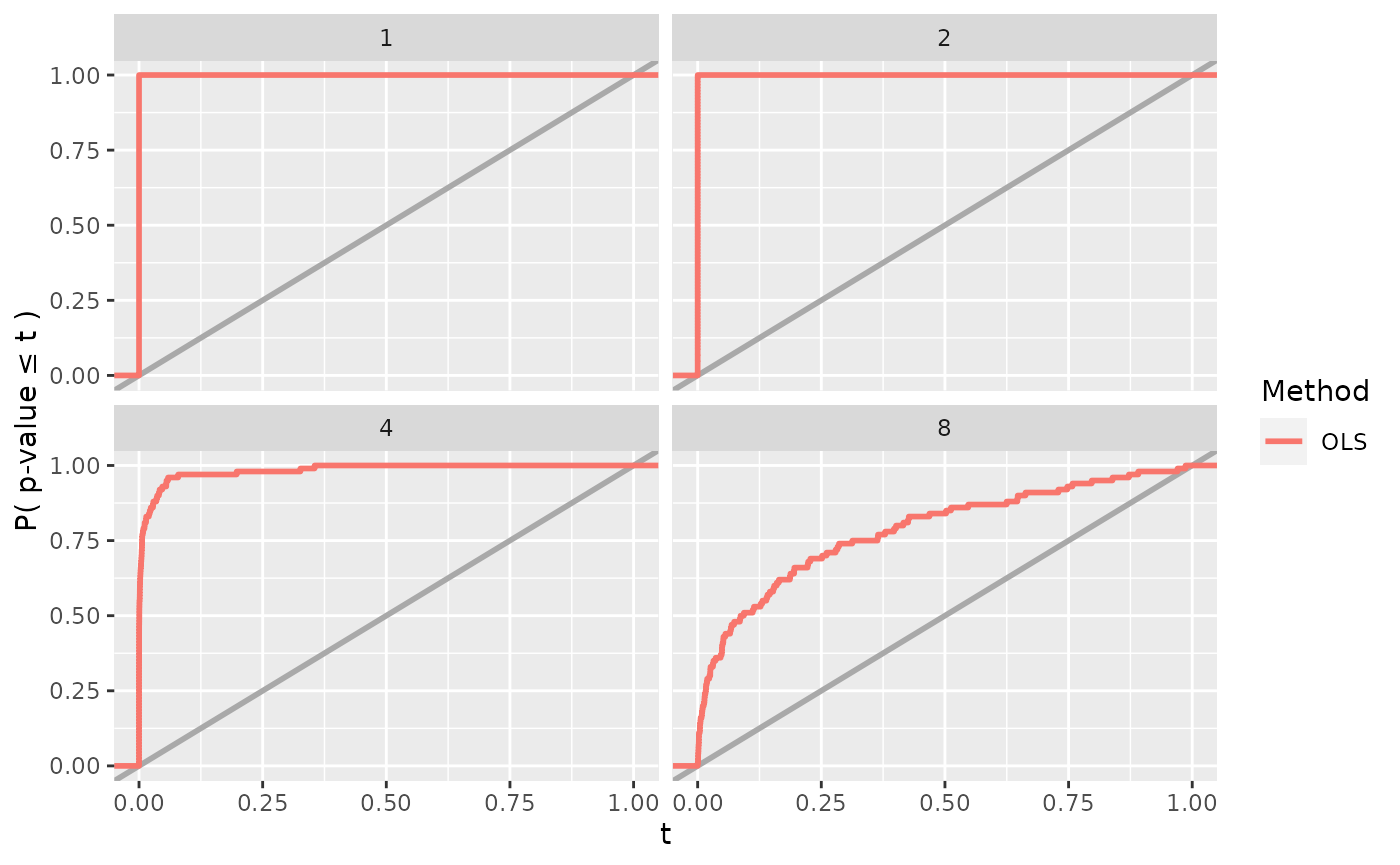
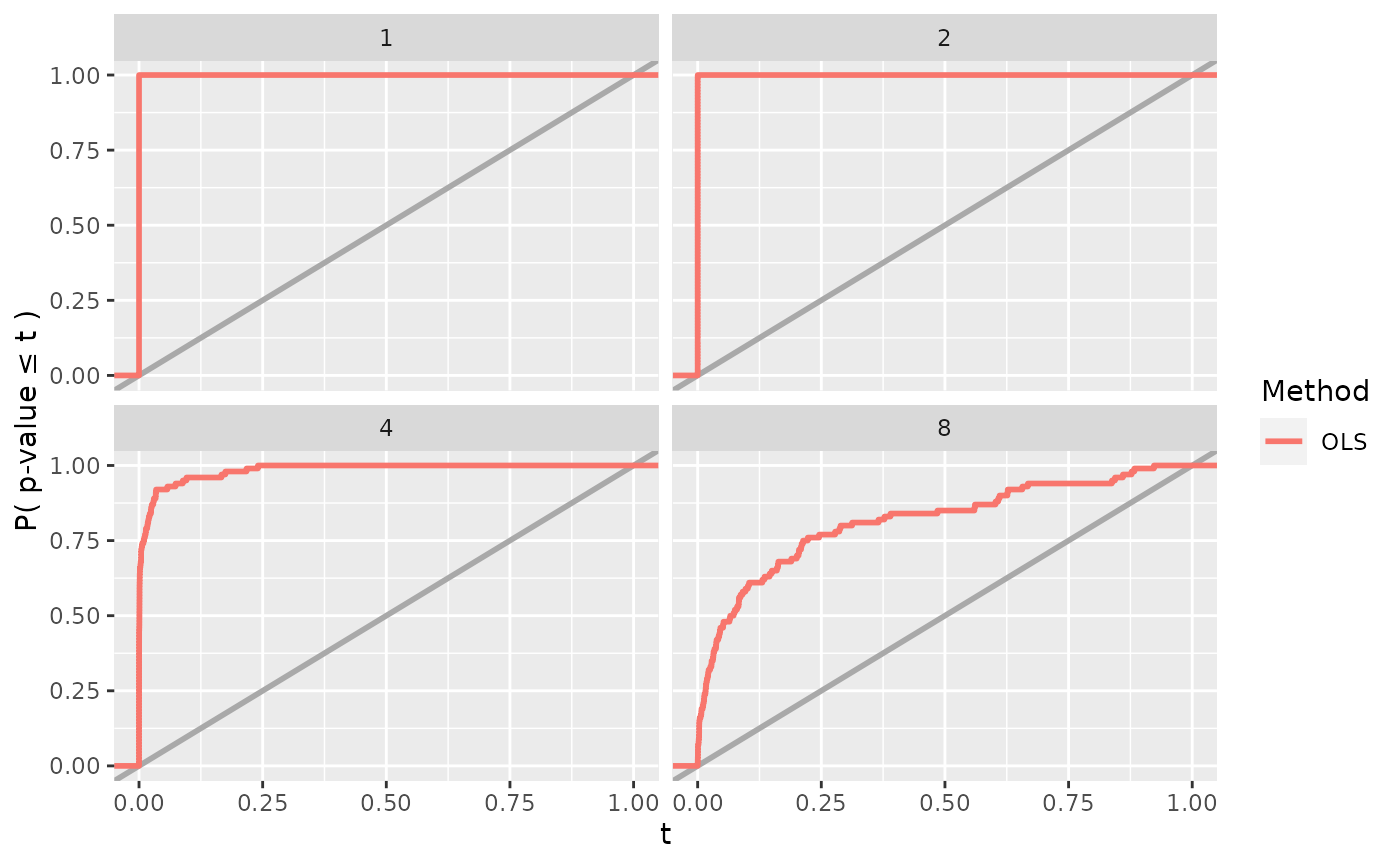
Built site for simChef: 0.0.1@9a0513c

diff --git a/articles/simChef.html b/articles/simChef.html
@@ -31,7 +31,7 @@
       </button>
       <span class="navbar-brand">
         <a class="navbar-link" href="../index.html">simChef</a>
-        <span class="version label label-default" data-toggle="tooltip" data-placement="bottom" title="Released version">0.0.0.9000</span>
+        <span class="version label label-default" data-toggle="tooltip" data-placement="bottom" title="Released version">0.0.1</span>
       </span>
     </div>
 
@@ -269,20 +269,20 @@
 <div class="sourceCode" id="cb14"><pre class="downlit sourceCode r">
 <code class="sourceCode R"><span class="va">results</span> <span class="op">&lt;-</span> <span class="va">experiment</span><span class="op">$</span><span class="fu">run</span><span class="op">(</span>n_reps <span class="op">=</span> <span class="fl">100</span>, save <span class="op">=</span> <span class="cn">TRUE</span><span class="op">)</span>
 <span class="co">#&gt; Fitting Linear Regression Experiment...</span>
-<span class="co">#&gt; Fitting completed | time taken: 0.028276 minutes</span>
+<span class="co">#&gt; Fitting completed | time taken: 0.026784 minutes</span>
 <span class="co">#&gt; Saving fit results...</span>
-<span class="co">#&gt; Fit results saved | time taken: 0.014868 seconds</span>
+<span class="co">#&gt; Fit results saved | time taken: 0.012683 seconds</span>
 <span class="co">#&gt; ==============================</span>
 <span class="co">#&gt; Evaluating Linear Regression Experiment...</span>
 <span class="co">#&gt; `summarise()` has grouped output by 'dgp_name'. You can override using the `.groups` argument.</span>
-<span class="co">#&gt; Evaluation completed | time taken: 0.000292 minutes</span>
+<span class="co">#&gt; Evaluation completed | time taken: 0.000249 minutes</span>
 <span class="co">#&gt; Saving eval results...</span>
-<span class="co">#&gt; Eval results saved | time taken: 0.014967 seconds</span>
+<span class="co">#&gt; Eval results saved | time taken: 0.014866 seconds</span>
 <span class="co">#&gt; ==============================</span>
 <span class="co">#&gt; Visualizing Linear Regression Experiment...</span>
-<span class="co">#&gt; Visualization completed | time taken: 0.002120 minutes</span>
+<span class="co">#&gt; Visualization completed | time taken: 0.001972 minutes</span>
 <span class="co">#&gt; Saving visualize results...</span>
-<span class="co">#&gt; Visualize results saved | time taken: 0.058697 seconds</span>
+<span class="co">#&gt; Visualize results saved | time taken: 0.059932 seconds</span>
 <span class="co">#&gt; ==============================</span></code></pre></div>
 <p>or alternatively,</p>
 <div class="sourceCode" id="cb15"><pre class="downlit sourceCode r">
@@ -310,23 +310,23 @@
 <span class="co">#&gt; # A tibble: 100 × 5</span>
 <span class="co">#&gt;    rep   dgp_name            method_name `X1 p-value` `X2 p-value`</span>
 <span class="co">#&gt;    &lt;chr&gt; &lt;chr&gt;               &lt;chr&gt;              &lt;dbl&gt;        &lt;dbl&gt;</span>
-<span class="co">#&gt;  1 1     Linear Gaussian DGP OLS             1.61e-41       0.643 </span>
-<span class="co">#&gt;  2 2     Linear Gaussian DGP OLS             1.55e-28       0.364 </span>
-<span class="co">#&gt;  3 3     Linear Gaussian DGP OLS             2.13e-29       0.763 </span>
-<span class="co">#&gt;  4 4     Linear Gaussian DGP OLS             1.55e-28       0.891 </span>
-<span class="co">#&gt;  5 5     Linear Gaussian DGP OLS             2.77e-27       0.629 </span>
-<span class="co">#&gt;  6 6     Linear Gaussian DGP OLS             1.36e-29       0.423 </span>
-<span class="co">#&gt;  7 7     Linear Gaussian DGP OLS             1.08e-29       0.464 </span>
-<span class="co">#&gt;  8 8     Linear Gaussian DGP OLS             4.59e-35       0.423 </span>
-<span class="co">#&gt;  9 9     Linear Gaussian DGP OLS             4.39e-20       0.0371</span>
-<span class="co">#&gt; 10 10    Linear Gaussian DGP OLS             4.92e-35       0.113 </span>
+<span class="co">#&gt;  1 1     Linear Gaussian DGP OLS             1.06e-36       0.675 </span>
+<span class="co">#&gt;  2 2     Linear Gaussian DGP OLS             9.42e-29       0.0782</span>
+<span class="co">#&gt;  3 3     Linear Gaussian DGP OLS             1.16e-29       0.207 </span>
+<span class="co">#&gt;  4 4     Linear Gaussian DGP OLS             8.33e-33       0.307 </span>
+<span class="co">#&gt;  5 5     Linear Gaussian DGP OLS             2.50e-39       0.126 </span>
+<span class="co">#&gt;  6 6     Linear Gaussian DGP OLS             6.45e-35       0.128 </span>
+<span class="co">#&gt;  7 7     Linear Gaussian DGP OLS             5.77e-32       0.0736</span>
+<span class="co">#&gt;  8 8     Linear Gaussian DGP OLS             9.10e-36       0.641 </span>
+<span class="co">#&gt;  9 9     Linear Gaussian DGP OLS             9.66e-26       0.937 </span>
+<span class="co">#&gt; 10 10    Linear Gaussian DGP OLS             5.98e-31       0.779 </span>
 <span class="co">#&gt; # … with 90 more rows</span>
 <span class="va">results</span><span class="op">$</span><span class="va">eval_results</span>
 <span class="co">#&gt; $`Rejection Prob. (alpha = 0.1)`</span>
 <span class="co">#&gt; # A tibble: 1 × 4</span>
 <span class="co">#&gt;   dgp_name            method_name `X1 Reject Prob.` `X2 Reject Prob.`</span>
 <span class="co">#&gt;   &lt;chr&gt;               &lt;chr&gt;                   &lt;dbl&gt;             &lt;dbl&gt;</span>
-<span class="co">#&gt; 1 Linear Gaussian DGP OLS                         1              0.14</span>
+<span class="co">#&gt; 1 Linear Gaussian DGP OLS                         1              0.11</span>
 <span class="va">results</span><span class="op">$</span><span class="va">visualize_results</span>
 <span class="co">#&gt; $Power</span></code></pre></div>
 <p><img src="simChef_files/figure-html/unnamed-chunk-17-1.png" width="700"></p>
@@ -374,26 +374,26 @@
 <div class="sourceCode" id="cb21"><pre class="downlit sourceCode r">
 <code class="sourceCode R"><span class="va">vary_results</span> <span class="op">&lt;-</span> <span class="va">experiment</span><span class="op">$</span><span class="fu">run</span><span class="op">(</span>n_reps <span class="op">=</span> <span class="fl">100</span>, save <span class="op">=</span> <span class="cn">TRUE</span><span class="op">)</span>
 <span class="co">#&gt; Fitting Linear Regression Experiment...</span>
-<span class="co">#&gt; Fitting completed | time taken: 0.071000 minutes</span>
+<span class="co">#&gt; Fitting completed | time taken: 0.065517 minutes</span>
 <span class="co">#&gt; Saving fit results...</span>
-<span class="co">#&gt; Fit results saved | time taken: 0.025206 seconds</span>
+<span class="co">#&gt; Fit results saved | time taken: 0.023986 seconds</span>
 <span class="co">#&gt; ==============================</span>
 <span class="co">#&gt; Evaluating Linear Regression Experiment...</span>
-<span class="co">#&gt; Evaluation completed | time taken: 0.000347 minutes</span>
+<span class="co">#&gt; Evaluation completed | time taken: 0.000321 minutes</span>
 <span class="co">#&gt; Saving eval results...</span>
-<span class="co">#&gt; Eval results saved | time taken: 0.023142 seconds</span>
+<span class="co">#&gt; Eval results saved | time taken: 0.022891 seconds</span>
 <span class="co">#&gt; ==============================</span>
 <span class="co">#&gt; Visualizing Linear Regression Experiment...</span>
-<span class="co">#&gt; Visualization completed | time taken: 0.000310 minutes</span>
+<span class="co">#&gt; Visualization completed | time taken: 0.000284 minutes</span>
 <span class="co">#&gt; Saving visualize results...</span>
-<span class="co">#&gt; Visualize results saved | time taken: 0.070595 seconds</span>
+<span class="co">#&gt; Visualize results saved | time taken: 0.068087 seconds</span>
 <span class="co">#&gt; ==============================</span>
 <span class="va">vary_results</span><span class="op">$</span><span class="va">eval_results</span>
 <span class="co">#&gt; $`Rejection Prob. (alpha = 0.1)`</span>
 <span class="co">#&gt; # A tibble: 1 × 4</span>
 <span class="co">#&gt;   dgp_name            method_name `X1 Reject Prob.` `X2 Reject Prob.`</span>
 <span class="co">#&gt;   &lt;chr&gt;               &lt;chr&gt;                   &lt;dbl&gt;             &lt;dbl&gt;</span>
-<span class="co">#&gt; 1 Linear Gaussian DGP OLS                     0.872             0.115</span>
+<span class="co">#&gt; 1 Linear Gaussian DGP OLS                     0.888             0.095</span>
 <span class="va">vary_results</span><span class="op">$</span><span class="va">visualize_results</span>
 <span class="co">#&gt; $Power</span></code></pre></div>
 <p><img src="simChef_files/figure-html/unnamed-chunk-22-1.png" width="700"></p>
@@ -446,29 +446,29 @@
   <span class="fu"><a href="../reference/update_funs.html">update_visualizer</a></span><span class="op">(</span><span class="va">power_plot</span>, name <span class="op">=</span> <span class="st">"Power"</span><span class="op">)</span> <span class="op">%&gt;%</span>
   <span class="fu"><a href="../reference/run_experiment.html">run_experiment</a></span><span class="op">(</span>n_reps <span class="op">=</span> <span class="fl">100</span>, save <span class="op">=</span> <span class="cn">TRUE</span><span class="op">)</span>
 <span class="co">#&gt; Fitting Linear Regression Experiment...</span>
-<span class="co">#&gt; Fitting completed | time taken: 0.070271 minutes</span>
+<span class="co">#&gt; Fitting completed | time taken: 0.065070 minutes</span>
 <span class="co">#&gt; Saving fit results...</span>
-<span class="co">#&gt; Fit results saved | time taken: 0.026704 seconds</span>
+<span class="co">#&gt; Fit results saved | time taken: 0.024217 seconds</span>
 <span class="co">#&gt; ==============================</span>
 <span class="co">#&gt; Evaluating Linear Regression Experiment...</span>
-<span class="co">#&gt; Evaluation completed | time taken: 0.000245 minutes</span>
+<span class="co">#&gt; Evaluation completed | time taken: 0.000258 minutes</span>
 <span class="co">#&gt; Saving eval results...</span>
-<span class="co">#&gt; Eval results saved | time taken: 0.025007 seconds</span>
+<span class="co">#&gt; Eval results saved | time taken: 0.025120 seconds</span>
 <span class="co">#&gt; ==============================</span>
 <span class="co">#&gt; Visualizing Linear Regression Experiment...</span>
-<span class="co">#&gt; Visualization completed | time taken: 0.000527 minutes</span>
+<span class="co">#&gt; Visualization completed | time taken: 0.000488 minutes</span>
 <span class="co">#&gt; Saving visualize results...</span>
-<span class="co">#&gt; Visualize results saved | time taken: 0.084808 seconds</span>
+<span class="co">#&gt; Visualize results saved | time taken: 0.080208 seconds</span>
 <span class="co">#&gt; ==============================</span>
 <span class="va">vary_results</span><span class="op">$</span><span class="va">eval_results</span>
 <span class="co">#&gt; $`Rejection Prob. (alpha = 0.1)`</span>
 <span class="co">#&gt; # A tibble: 4 × 5</span>
 <span class="co">#&gt;   dgp_name            method_name sigma `X1 Reject Prob.` `X2 Reject Prob.`</span>
 <span class="co">#&gt;   &lt;chr&gt;               &lt;chr&gt;       &lt;dbl&gt;             &lt;dbl&gt;             &lt;dbl&gt;</span>
-<span class="co">#&gt; 1 Linear Gaussian DGP OLS             1              1                 0.07</span>
-<span class="co">#&gt; 2 Linear Gaussian DGP OLS             2              1                 0.2 </span>
-<span class="co">#&gt; 3 Linear Gaussian DGP OLS             4              0.97              0.07</span>
-<span class="co">#&gt; 4 Linear Gaussian DGP OLS             8              0.51              0.1</span>
+<span class="co">#&gt; 1 Linear Gaussian DGP OLS             1              1                 0.1 </span>
+<span class="co">#&gt; 2 Linear Gaussian DGP OLS             2              1                 0.08</span>
+<span class="co">#&gt; 3 Linear Gaussian DGP OLS             4              0.96              0.09</span>
+<span class="co">#&gt; 4 Linear Gaussian DGP OLS             8              0.59              0.11</span>
 <span class="va">vary_results</span><span class="op">$</span><span class="va">visualize_results</span>
 <span class="co">#&gt; $Power</span></code></pre></div>
 <p><img src="simChef_files/figure-html/unnamed-chunk-25-1.png" width="700"></p>
@@ -519,19 +519,19 @@
                               <span class="fu"><a href="https://rdrr.io/r/base/c.html">c</a></span><span class="op">(</span><span class="fl">1</span>, <span class="fl">2</span><span class="op">)</span><span class="op">)</span><span class="op">)</span> <span class="op">%&gt;%</span>
   <span class="fu"><a href="../reference/run_experiment.html">run_experiment</a></span><span class="op">(</span>n_reps <span class="op">=</span> <span class="fl">100</span>, save <span class="op">=</span> <span class="cn">TRUE</span><span class="op">)</span>
 <span class="co">#&gt; Fitting Linear Regression Experiment...</span>
-<span class="co">#&gt; Fitting completed | time taken: 0.174802 minutes</span>
+<span class="co">#&gt; Fitting completed | time taken: 0.151339 minutes</span>
 <span class="co">#&gt; Saving fit results...</span>
-<span class="co">#&gt; Fit results saved | time taken: 0.030226 seconds</span>
+<span class="co">#&gt; Fit results saved | time taken: 0.032769 seconds</span>
 <span class="co">#&gt; ==============================</span>
 <span class="co">#&gt; Evaluating Linear Regression Experiment...</span>
-<span class="co">#&gt; Evaluation completed | time taken: 0.000357 minutes</span>
+<span class="co">#&gt; Evaluation completed | time taken: 0.000325 minutes</span>
 <span class="co">#&gt; Saving eval results...</span>
-<span class="co">#&gt; Eval results saved | time taken: 0.028902 seconds</span>
+<span class="co">#&gt; Eval results saved | time taken: 0.026973 seconds</span>
 <span class="co">#&gt; ==============================</span>
 <span class="co">#&gt; Visualizing Linear Regression Experiment...</span>
-<span class="co">#&gt; Visualization completed | time taken: 0.004761 minutes</span>
+<span class="co">#&gt; Visualization completed | time taken: 0.004408 minutes</span>
 <span class="co">#&gt; Saving visualize results...</span>
-<span class="co">#&gt; Visualize results saved | time taken: 0.129688 seconds</span>
+<span class="co">#&gt; Visualize results saved | time taken: 0.122291 seconds</span>
 <span class="co">#&gt; ==============================</span>
 <span class="co"># run experiment across values of rho (correlation)</span>
 <span class="va">vary_cor_results</span> <span class="op">&lt;-</span> <span class="va">experiment</span> <span class="op">%&gt;%</span>
@@ -540,19 +540,19 @@
                   rho <span class="op">=</span> <span class="fu"><a href="https://rdrr.io/r/base/c.html">c</a></span><span class="op">(</span><span class="fl">0</span>, <span class="fl">0.2</span>, <span class="fl">0.5</span>, <span class="fl">0.9</span><span class="op">)</span><span class="op">)</span> <span class="op">%&gt;%</span>
   <span class="fu"><a href="../reference/run_experiment.html">run_experiment</a></span><span class="op">(</span>n_reps <span class="op">=</span> <span class="fl">100</span>, save <span class="op">=</span> <span class="cn">TRUE</span><span class="op">)</span>
 <span class="co">#&gt; Fitting Linear Regression Experiment...</span>
-<span class="co">#&gt; Fitting completed | time taken: 0.074842 minutes</span>
+<span class="co">#&gt; Fitting completed | time taken: 0.062647 minutes</span>
 <span class="co">#&gt; Saving fit results...</span>
-<span class="co">#&gt; Fit results saved | time taken: 0.031619 seconds</span>
+<span class="co">#&gt; Fit results saved | time taken: 0.025517 seconds</span>
 <span class="co">#&gt; ==============================</span>
 <span class="co">#&gt; Evaluating Linear Regression Experiment...</span>
-<span class="co">#&gt; Evaluation completed | time taken: 0.000221 minutes</span>
+<span class="co">#&gt; Evaluation completed | time taken: 0.000170 minutes</span>
 <span class="co">#&gt; Saving eval results...</span>
-<span class="co">#&gt; Eval results saved | time taken: 0.030880 seconds</span>
+<span class="co">#&gt; Eval results saved | time taken: 0.024949 seconds</span>
 <span class="co">#&gt; ==============================</span>
 <span class="co">#&gt; Visualizing Linear Regression Experiment...</span>
-<span class="co">#&gt; Visualization completed | time taken: 0.002419 minutes</span>
+<span class="co">#&gt; Visualization completed | time taken: 0.002016 minutes</span>
 <span class="co">#&gt; Saving visualize results...</span>
-<span class="co">#&gt; Visualize results saved | time taken: 0.166683 seconds</span>
+<span class="co">#&gt; Visualize results saved | time taken: 0.121485 seconds</span>
 <span class="co">#&gt; ==============================</span></code></pre></div>
 </div>
 <div id="experiment-as-an-r6-class" class="section level2">
@@ -705,15 +705,15 @@
 <div class="sourceCode" id="cb36"><pre class="downlit sourceCode r">
 <code class="sourceCode R"><span class="va">fit_results</span> <span class="op">&lt;-</span> <span class="va">experiment</span><span class="op">$</span><span class="fu">fit</span><span class="op">(</span>n_reps <span class="op">=</span> <span class="fl">100</span><span class="op">)</span>
 <span class="co">#&gt; Fitting Linear Regression Experiment...</span>
-<span class="co">#&gt; Fitting completed | time taken: 0.075522 minutes</span>
+<span class="co">#&gt; Fitting completed | time taken: 0.060215 minutes</span>
 <span class="co">#&gt; ==============================</span>
 <span class="va">eval_results</span> <span class="op">&lt;-</span> <span class="va">experiment</span><span class="op">$</span><span class="fu">evaluate</span><span class="op">(</span><span class="va">fit_results</span><span class="op">)</span>
 <span class="co">#&gt; Evaluating Linear Regression Experiment...</span>
-<span class="co">#&gt; Evaluation completed | time taken: 0.000198 minutes</span>
+<span class="co">#&gt; Evaluation completed | time taken: 0.000193 minutes</span>
 <span class="co">#&gt; ==============================</span>
 <span class="va">visualize_results</span> <span class="op">&lt;-</span> <span class="va">experiment</span><span class="op">$</span><span class="fu">visualize</span><span class="op">(</span><span class="va">fit_results</span>, <span class="va">eval_results</span><span class="op">)</span>
 <span class="co">#&gt; Visualizing Linear Regression Experiment...</span>
-<span class="co">#&gt; Visualization completed | time taken: 0.002060 minutes</span>
+<span class="co">#&gt; Visualization completed | time taken: 0.001831 minutes</span>
 <span class="co">#&gt; ==============================</span></code></pre></div>
 <p>or alternatively,</p>
 <div class="sourceCode" id="cb37"><pre class="downlit sourceCode r">
@@ -730,38 +730,38 @@
 <span class="co">#&gt;  $ Linear Gaussian DGP:List of 4</span>
 <span class="co">#&gt;   ..$ :List of 1</span>
 <span class="co">#&gt;   .. ..$ :List of 2</span>
-<span class="co">#&gt;   .. .. ..$ X: num [1:200, 1:2] 2.1085 0.2554 -1.3093 0.0832 0.0082 ...</span>
+<span class="co">#&gt;   .. .. ..$ X: num [1:200, 1:2] 0.0266 -1.7726 -2.1415 1.5555 -1.1212 ...</span>
 <span class="co">#&gt;   .. .. .. ..- attr(*, "dimnames")=List of 2</span>
 <span class="co">#&gt;   .. .. .. .. ..$ : NULL</span>
 <span class="co">#&gt;   .. .. .. .. ..$ : NULL</span>
-<span class="co">#&gt;   .. .. ..$ y: num [1:200, 1] 2.89 -0.37 -3.45 1.37 -1.3 ...</span>
+<span class="co">#&gt;   .. .. ..$ y: num [1:200, 1] 1.438 0.116 -3.492 0.647 -1.096 ...</span>
 <span class="co">#&gt;   .. ..- attr(*, "params")=List of 1</span>
 <span class="co">#&gt;   .. .. ..$ sigma: num 1</span>
 <span class="co">#&gt;   ..$ :List of 1</span>
 <span class="co">#&gt;   .. ..$ :List of 2</span>
-<span class="co">#&gt;   .. .. ..$ X: num [1:200, 1:2] 0.6465 -0.3643 0.0495 -0.1809 -1.0944 ...</span>
+<span class="co">#&gt;   .. .. ..$ X: num [1:200, 1:2] -1.627 0.243 -1.324 -0.161 -1.349 ...</span>
 <span class="co">#&gt;   .. .. .. ..- attr(*, "dimnames")=List of 2</span>
 <span class="co">#&gt;   .. .. .. .. ..$ : NULL</span>
 <span class="co">#&gt;   .. .. .. .. ..$ : NULL</span>
-<span class="co">#&gt;   .. .. ..$ y: num [1:200, 1] 1.148 0.397 1.95 0.332 -0.198 ...</span>
+<span class="co">#&gt;   .. .. ..$ y: num [1:200, 1] -3.468 0.753 -3.055 -0.354 -3.816 ...</span>
 <span class="co">#&gt;   .. ..- attr(*, "params")=List of 1</span>
 <span class="co">#&gt;   .. .. ..$ sigma: num 2</span>
 <span class="co">#&gt;   ..$ :List of 1</span>
 <span class="co">#&gt;   .. ..$ :List of 2</span>
-<span class="co">#&gt;   .. .. ..$ X: num [1:200, 1:2] -0.125 -0.221 0.432 0.36 -0.161 ...</span>
+<span class="co">#&gt;   .. .. ..$ X: num [1:200, 1:2] 0.705 0.207 -1.16 -0.945 1.351 ...</span>
 <span class="co">#&gt;   .. .. .. ..- attr(*, "dimnames")=List of 2</span>
 <span class="co">#&gt;   .. .. .. .. ..$ : NULL</span>
 <span class="co">#&gt;   .. .. .. .. ..$ : NULL</span>
-<span class="co">#&gt;   .. .. ..$ y: num [1:200, 1] -2.402 -0.484 2.05 0.628 -4.859 ...</span>
+<span class="co">#&gt;   .. .. ..$ y: num [1:200, 1] 4.813 -4.114 1.804 -3.946 -0.708 ...</span>
 <span class="co">#&gt;   .. ..- attr(*, "params")=List of 1</span>
 <span class="co">#&gt;   .. .. ..$ sigma: num 4</span>
 <span class="co">#&gt;   ..$ :List of 1</span>
 <span class="co">#&gt;   .. ..$ :List of 2</span>
-<span class="co">#&gt;   .. .. ..$ X: num [1:200, 1:2] 0.5942 0.0286 1.2218 1.242 -0.7616 ...</span>
+<span class="co">#&gt;   .. .. ..$ X: num [1:200, 1:2] -1.108 -0.786 0.639 -0.537 0.172 ...</span>
 <span class="co">#&gt;   .. .. .. ..- attr(*, "dimnames")=List of 2</span>
 <span class="co">#&gt;   .. .. .. .. ..$ : NULL</span>
 <span class="co">#&gt;   .. .. .. .. ..$ : NULL</span>
-<span class="co">#&gt;   .. .. ..$ y: num [1:200, 1] -13.52 -1.38 6.21 5.26 2.82 ...</span>
+<span class="co">#&gt;   .. .. ..$ y: num [1:200, 1] 9.09 4.92 2.18 -11.82 5.49 ...</span>
 <span class="co">#&gt;   .. ..- attr(*, "params")=List of 1</span>
 <span class="co">#&gt;   .. .. ..$ sigma: num 8</span></code></pre></div>
 <p>or alternatively,</p>

diff --git a/articles/parallel.html b/articles/parallel.html
@@ -31,7 +31,7 @@
       </button>
       <span class="navbar-brand">
         <a class="navbar-link" href="../index.html">simChef</a>
-        <span class="version label label-default" data-toggle="tooltip" data-placement="bottom" title="Released version">0.0.0.9000</span>
+        <span class="version label label-default" data-toggle="tooltip" data-placement="bottom" title="Released version">0.0.1</span>
       </span>
     </div>
 
@@ -235,7 +235,7 @@
   <span class="op">)</span>
 <span class="op">)</span>
 <span class="co">#&gt; Fitting base...</span>
-<span class="co">#&gt; Fitting completed | time taken: 1.014750 minutes</span>
+<span class="co">#&gt; Fitting completed | time taken: 0.902190 minutes</span>
 <span class="co">#&gt; ==============================</span>
 <span class="co">#&gt; # A tibble: 136 × 16</span>
 <span class="co">#&gt;      rep dgp_name   method_name     p   rho sparsity nonzero_coeff alpha term   </span>

diff --git a/reference/visualize_experiment.html b/reference/visualize_experiment.html
@@ -73,7 +73,7 @@ using all Visualizers in the Experiment and return visualization results." />
       </button>
       <span class="navbar-brand">
         <a class="navbar-link" href="../index.html">simChef</a>
-        <span class="version label label-default" data-toggle="tooltip" data-placement="bottom" title="Released version">0.0.0.9000</span>
+        <span class="version label label-default" data-toggle="tooltip" data-placement="bottom" title="Released version">0.0.1</span>
       </span>
     </div>
 

diff --git a/reference/list_col_to_chr.html b/reference/list_col_to_chr.html
@@ -73,7 +73,7 @@ character-type column. Often useful for plotting along this column." />
       </button>
       <span class="navbar-brand">
         <a class="navbar-link" href="../index.html">simChef</a>
-        <span class="version label label-default" data-toggle="tooltip" data-placement="bottom" title="Released version">0.0.0.9000</span>
+        <span class="version label label-default" data-toggle="tooltip" data-placement="bottom" title="Released version">0.0.1</span>
       </span>
     </div>
 

diff --git a/reference/list_to_tibble_row.html b/reference/list_to_tibble_row.html
@@ -74,7 +74,7 @@ into a tibble row, where each column in the tibble is of type list." />
       </button>
       <span class="navbar-brand">
         <a class="navbar-link" href="../index.html">simChef</a>
-        <span class="version label label-default" data-toggle="tooltip" data-placement="bottom" title="Released version">0.0.0.9000</span>
+        <span class="version label label-default" data-toggle="tooltip" data-placement="bottom" title="Released version">0.0.1</span>
       </span>
     </div>
 

diff --git a/reference/save_experiment.html b/reference/save_experiment.html
@@ -73,7 +73,7 @@ Experiment's results directory (see Experiment$get_save_dir())." />
       </button>
       <span class="navbar-brand">
         <a class="navbar-link" href="../index.html">simChef</a>
-        <span class="version label label-default" data-toggle="tooltip" data-placement="bottom" title="Released version">0.0.0.9000</span>
+        <span class="version label label-default" data-toggle="tooltip" data-placement="bottom" title="Released version">0.0.1</span>
       </span>
     </div>
 

diff --git a/reference/Visualizer.html b/reference/Visualizer.html
@@ -73,7 +73,7 @@ methods and/or its evaluation metrics from the Experiment run." />
       </button>
       <span class="navbar-brand">
         <a class="navbar-link" href="../index.html">simChef</a>
-        <span class="version label label-default" data-toggle="tooltip" data-placement="bottom" title="Released version">0.0.0.9000</span>
+        <span class="version label label-default" data-toggle="tooltip" data-placement="bottom" title="Released version">0.0.1</span>
       </span>
     </div>
 

diff --git a/reference/list_to_tibble.html b/reference/list_to_tibble.html
@@ -74,7 +74,7 @@ where each non-scalar column in the tibble is of type list." />
       </button>
       <span class="navbar-brand">
         <a class="navbar-link" href="../index.html">simChef</a>
-        <span class="version label label-default" data-toggle="tooltip" data-placement="bottom" title="Released version">0.0.0.9000</span>
+        <span class="version label label-default" data-toggle="tooltip" data-placement="bottom" title="Released version">0.0.1</span>
       </span>
     </div>
 

diff --git a/reference/fit_experiment.html b/reference/fit_experiment.html
@@ -73,7 +73,7 @@ DGPs for n_reps repetitions and return results from fits." />
       </button>
       <span class="navbar-brand">
         <a class="navbar-link" href="../index.html">simChef</a>
-        <span class="version label label-default" data-toggle="tooltip" data-placement="bottom" title="Released version">0.0.0.9000</span>
+        <span class="version label label-default" data-toggle="tooltip" data-placement="bottom" title="Released version">0.0.1</span>
       </span>
     </div>
 

diff --git a/reference/make_initialize_arg_list.html b/reference/make_initialize_arg_list.html
@@ -75,7 +75,7 @@ of the method that calls make_initialize_arg_list()." />
       </button>
       <span class="navbar-brand">
         <a class="navbar-link" href="../index.html">simChef</a>
-        <span class="version label label-default" data-toggle="tooltip" data-placement="bottom" title="Released version">0.0.0.9000</span>
+        <span class="version label label-default" data-toggle="tooltip" data-placement="bottom" title="Released version">0.0.1</span>
       </span>
     </div>
 

diff --git a/reference/prettyKable.html b/reference/prettyKable.html
@@ -73,7 +73,7 @@ kable (across rows, columns, or the entire table)." />
       </button>
       <span class="navbar-brand">
         <a class="navbar-link" href="../index.html">simChef</a>
-        <span class="version label label-default" data-toggle="tooltip" data-placement="bottom" title="Released version">0.0.0.9000</span>
+        <span class="version label label-default" data-toggle="tooltip" data-placement="bottom" title="Released version">0.0.1</span>
       </span>
     </div>
 

diff --git a/reference/evaluate_experiment.html b/reference/evaluate_experiment.html
@@ -73,7 +73,7 @@ Evaluators in the Experiment and return results." />
       </button>
       <span class="navbar-brand">
         <a class="navbar-link" href="../index.html">simChef</a>
-        <span class="version label label-default" data-toggle="tooltip" data-placement="bottom" title="Released version">0.0.0.9000</span>
+        <span class="version label label-default" data-toggle="tooltip" data-placement="bottom" title="Released version">0.0.1</span>
       </span>
     </div>
 
